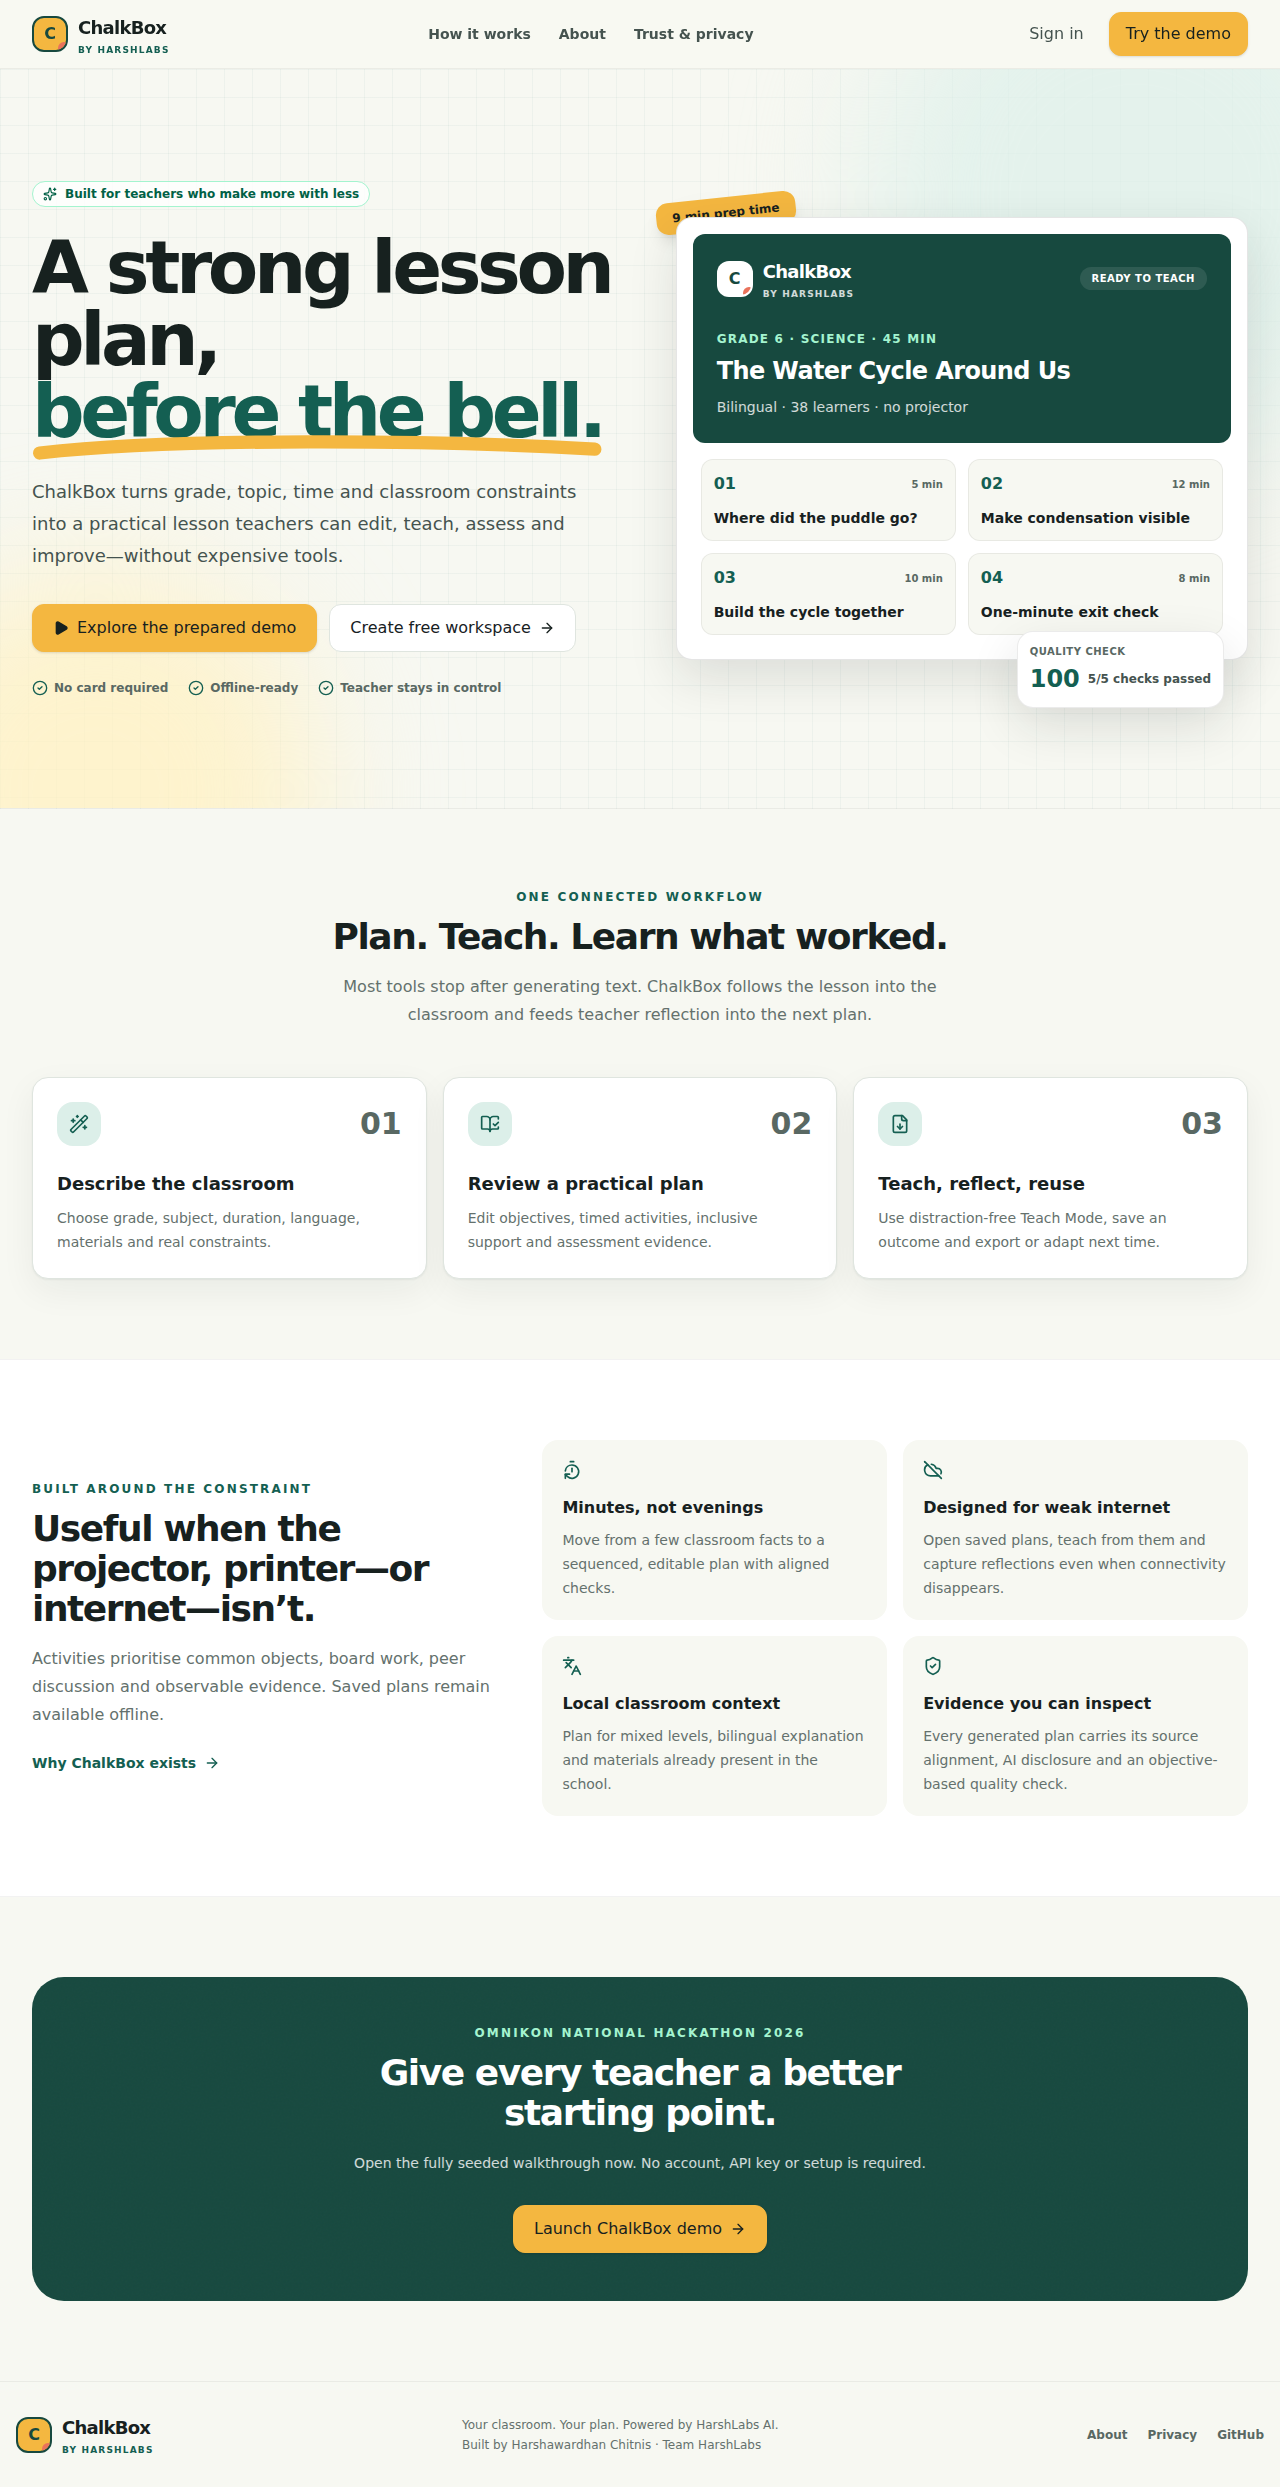
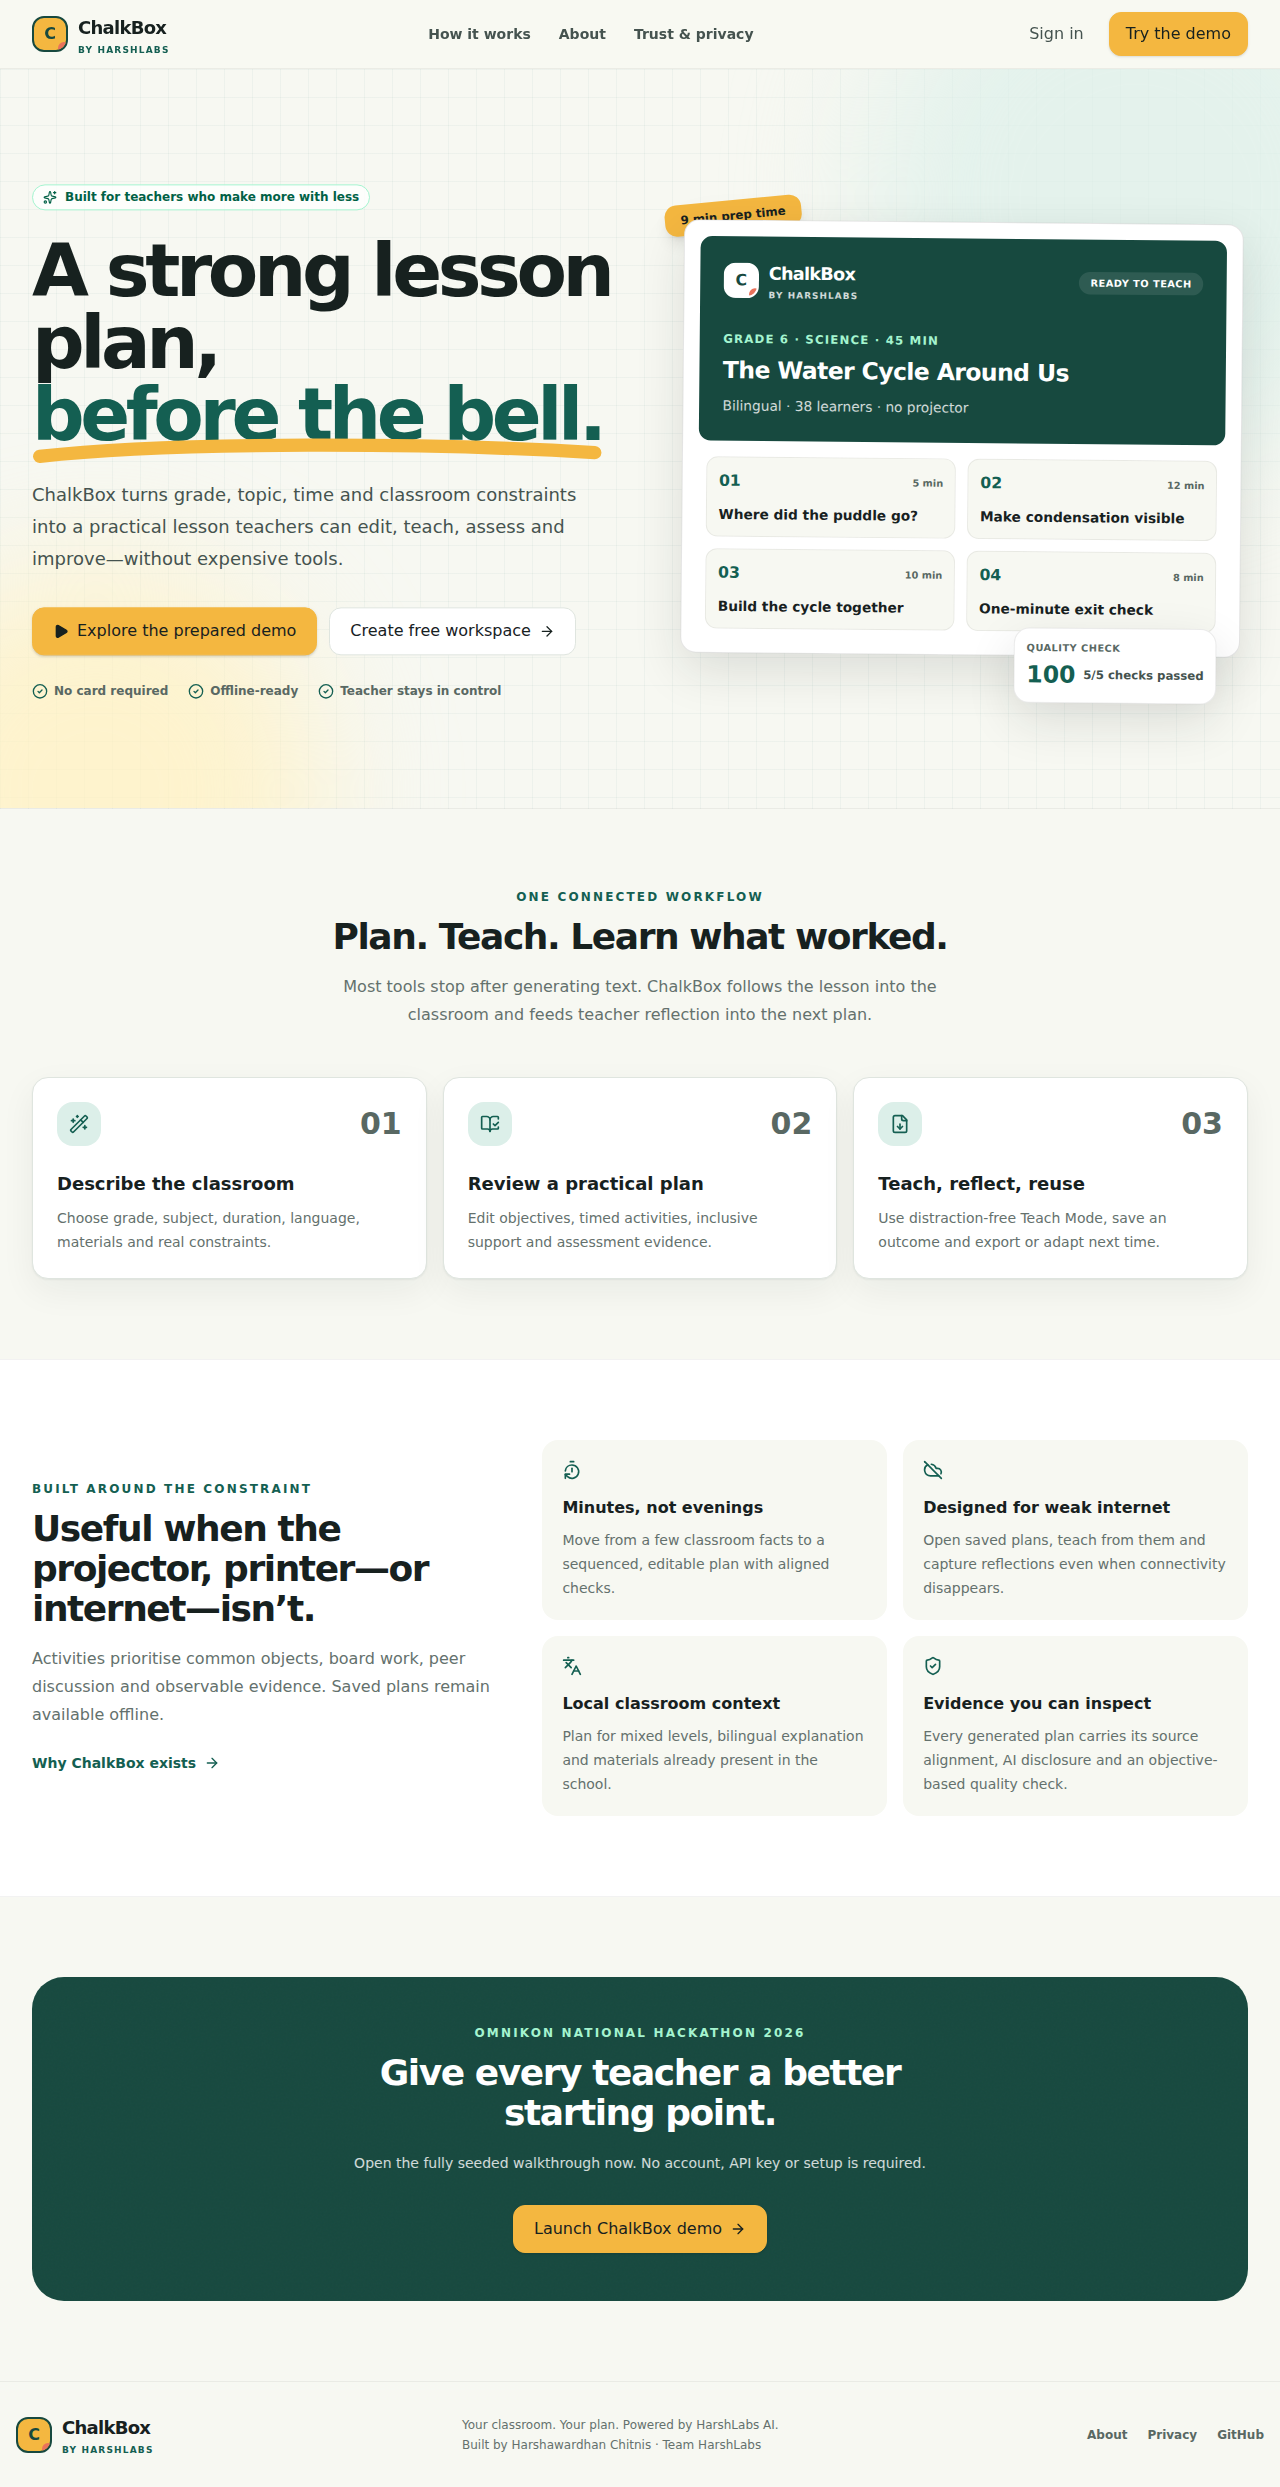
docs: finalize verified v3 evidence and delivery manifest

diff --git a/INTEGRATION_STATUS.md b/INTEGRATION_STATUS.md
@@ -6,36 +6,36 @@ This file is the authoritative truth boundary between implemented code, locally 
 
 ## Immediately functional without external setup
 
-| Capability                         | Status                           | Evidence/behavior                                                     |
-| ---------------------------------- | -------------------------------- | --------------------------------------------------------------------- |
-| Prepared judge demo                | Verified locally                 | Deterministic fictional fixtures seed into IndexedDB                  |
-| Landing/dashboard/library          | Verified locally                 | Production build and route smoke passed                               |
-| Quick Brief rule-based review      | Implemented/tested               | Explicitly labelled `rule-based`; teacher reviews before use          |
-| Plan editor/autosave/history       | Implemented/tested               | Dexie persistence, checkpoints, restore and duplicate                 |
-| Classroom profiles                 | Implemented                      | Create/edit/duplicate/archive without student names                   |
-| Curriculum explorer                | Implemented                      | Original static source-aware mappings                                 |
-| Assessment bank/worksheet          | Implemented/tested               | Provenance/review state, learner/key PDF components                   |
-| Teach/Present Mode                 | Implemented/tested at unit level | Typed blocks; explicit learner DTO excludes private teaching fields   |
-| Quick Checks/reflections/analytics | Implemented/tested               | Anonymous counts, misconception signal and suggested next action      |
-| Local immutable share demo         | Implemented/tested               | Cryptographic token/hash, snapshot, expiry and revocation logic       |
-| Moderated community demo           | Implemented/tested               | Approved immutable fixtures plus pending submission                   |
-| Offline queue/conflicts/reset      | Implemented/tested               | Ordered queue and three explicit conflict choices                     |
-| PWA/build/smoke                    | Verified locally                 | 89 precache entries and four smoke routes returned 200                |
-| Copyright-safe curriculum bundle   | Verified locally                 | 3 sources, 23 original chunks; NCERT book itself is not redistributed |
+| Capability                         | Status                     | Evidence/behavior                                                     |
+| ---------------------------------- | -------------------------- | --------------------------------------------------------------------- |
+| Prepared judge demo                | Verified locally           | Deterministic fictional fixtures seed into IndexedDB                  |
+| Landing/dashboard/library          | Verified locally           | Production build and route smoke passed                               |
+| Quick Brief rule-based review      | Implemented/tested         | Explicitly labelled `rule-based`; teacher reviews before use          |
+| Plan editor/autosave/history       | Implemented/tested         | Dexie persistence, checkpoints, restore and duplicate                 |
+| Classroom profiles                 | Implemented                | Create/edit/duplicate/archive without student names                   |
+| Curriculum explorer                | Implemented                | Original static source-aware mappings                                 |
+| Assessment bank/worksheet          | Implemented/tested         | Provenance/review state, learner/key PDF components                   |
+| Teach/Present Mode                 | Verified locally and in CI | Typed blocks; explicit learner DTO excludes private teaching fields   |
+| Quick Checks/reflections/analytics | Implemented/tested         | Anonymous counts, misconception signal and suggested next action      |
+| Local immutable share demo         | Implemented/tested         | Cryptographic token/hash, snapshot, expiry and revocation logic       |
+| Moderated community demo           | Implemented/tested         | Approved immutable fixtures plus pending submission                   |
+| Offline queue/conflicts/reset      | Implemented/tested         | Ordered queue and three explicit conflict choices                     |
+| PWA/build/smoke                    | Verified locally           | 89 precache entries and four smoke routes returned 200                |
+| Copyright-safe curriculum bundle   | Verified locally           | 3 sources, 23 original chunks; NCERT book itself is not redistributed |
 
 ## Optional hosted integrations
 
-| Integration                     | Code/config status                | Live verification status                                                 | Required owner action                                        |
-| ------------------------------- | --------------------------------- | ------------------------------------------------------------------------ | ------------------------------------------------------------ |
-| Supabase Auth                   | Implemented                       | **Not verified in this final environment**                               | Apply migrations; set site/callback URLs; test magic link    |
-| Supabase Postgres/RLS sync      | Implemented                       | **Not verified against hosted project**                                  | Apply migrations; test two-session owner/version behavior    |
-| Gemini 3.7 Flash                | Protected functions implemented   | **No API key supplied/used here; live generation unverified**            | Store key only in Edge Function secrets; deploy and test     |
-| Gemini Embedding 2 + hybrid RAG | SQL/function/corpus implemented   | **Hosted embeddings/retrieval unverified**                               | Deploy/index approved corpus; verify a real retrieved source |
-| Cross-browser public sharing    | Hashed-token RPC path implemented | **Hosted public token unverified**                                       | Apply migration 004; test active, expired and revoked link   |
-| Cloud moderation                | Tables/RLS/UI implemented         | **Hosted admin role/write unverified**                                   | Promote verified owner; test approve/reject/report           |
-| Turnstile                       | Component/config supported        | **Not configured**                                                       | Create free widget and configure site/secret keys            |
-| Cloudflare Pages                | Build/headers/redirects ready     | **Final URL not supplied/verified**                                      | Connect repository; set public variables; deploy             |
-| Browser E2E/axe                 | v3 suite implemented              | **Current v3 suite awaiting GitHub Actions; local Chromium unavailable** | Re-run automatically after branch publication                |
+| Integration                     | Code/config status                | Live verification status                                          | Required owner action                                         |
+| ------------------------------- | --------------------------------- | ----------------------------------------------------------------- | ------------------------------------------------------------- |
+| Supabase Auth                   | Implemented                       | **Not verified in this final environment**                        | Apply migrations; set site/callback URLs; test magic link     |
+| Supabase Postgres/RLS sync      | Implemented                       | **Not verified against hosted project**                           | Apply migrations; test two-session owner/version behavior     |
+| Gemini 3.7 Flash                | Protected functions implemented   | **No API key supplied/used here; live generation unverified**     | Store key only in Edge Function secrets; deploy and test      |
+| Gemini Embedding 2 + hybrid RAG | SQL/function/corpus implemented   | **Hosted embeddings/retrieval unverified**                        | Deploy/index approved corpus; verify a real retrieved source  |
+| Cross-browser public sharing    | Hashed-token RPC path implemented | **Hosted public token unverified**                                | Apply migration 004; test active, expired and revoked link    |
+| Cloud moderation                | Tables/RLS/UI implemented         | **Hosted admin role/write unverified**                            | Promote verified owner; test approve/reject/report            |
+| Turnstile                       | Component/config supported        | **Not configured**                                                | Create free widget and configure site/secret keys             |
+| Cloudflare Pages                | Build/headers/redirects ready     | **Final URL not supplied/verified**                               | Connect repository; set public variables; deploy              |
+| Browser E2E/axe                 | v3 suite implemented              | **GitHub Actions run #26 passed: 17 passed, 3 intentional skips** | Download retained Playwright/eight-screen artifacts as needed |
 
 ## Environment values still required for the cloud path
 

diff --git a/FINAL_DELIVERY_MANIFEST.md b/FINAL_DELIVERY_MANIFEST.md
@@ -1,0 +1,49 @@
+# ChalkBox final delivery manifest
+
+Team HarshLabs · Omnikon National Hackathon 2026 · Omni_EdTech_7
+
+## Included
+
+- complete React/TypeScript source and lockfile;
+- production `dist/` build and installable PWA assets;
+- typed Classroom Teaching Engine, private Teach Mode and learner-safe Present Mode;
+- exact 40-minute bilingual Photosynthesis flagship flow with nine instructional blocks;
+- anonymous Quick Check 2.0, reflection, assessment, worksheet, offline, sharing, versioning and community flows;
+- Supabase schema, RLS/security tests and server-side Gemini/RAG function code;
+- copyright-safe NCERT Class VIII Science metadata, page locators and original derived summaries (not the textbook PDF);
+- 12-page technical report;
+- eight CI-captured product screenshots;
+- implementation, deployment, security, testing, demo and integration-status documentation;
+- unit/component, security-contract, accessibility and end-to-end tests.
+
+## Verified quality gate
+
+GitHub Actions run **#26** passed for application commit `0d98afb883049498c7c07da01e74a87e5bbdc3a1`:
+
+- fixtures and curriculum provenance validated;
+- strict TypeScript and ESLint passed;
+- 14 Vitest files / 32 tests passed;
+- production PWA build and route smoke passed;
+- Playwright desktop/mobile suite: 17 passed / 3 intentional project-specific skips;
+- exact eight-screen evidence artifact produced.
+
+## Run locally
+
+```bash
+pnpm install --frozen-lockfile
+pnpm dev
+```
+
+Open the printed local URL and choose **Explore the prepared demo**. The prepared demonstration needs no database, API key or account.
+
+For the complete production gate:
+
+```bash
+pnpm verify
+pnpm exec playwright install --with-deps chromium
+pnpm test:e2e
+```
+
+## Truth boundary
+
+The prepared demo and local-first product are immediately functional. Hosted Supabase, live Gemini/RAG, public cross-browser sharing, Turnstile and Cloudflare Pages remain optional owner-configured integrations and are not falsely represented as deployed. No secret or learner PII is included.

diff --git a/report/evidence/BUILD_VERIFICATION.md b/report/evidence/BUILD_VERIFICATION.md
@@ -35,10 +35,18 @@ The `ChalkBox quality gate` workflow is configured to run:
 - axe WCAG A/AA serious/critical checks;
 - production-build, Playwright-report and eight product-screenshot artifacts.
 
-The previous v2 baseline passed GitHub Actions run **#16**. The new v3 branch must complete its own workflow before any browser-pass claim is updated here. The workflow is configured to upload the production build, Playwright report, and eight-screen v3 product evidence set.
+The v3 Classroom Teaching Engine passed GitHub Actions run **#26** on commit `0d98afb883049498c7c07da01e74a87e5bbdc3a1`:
+
+- `verify`: passed;
+- `browser-tests`: passed;
+- Playwright: 20 discovered checks across desktop/mobile projects, **17 passed** and **3 intentional project-specific skips**;
+- accessibility checks: passed on desktop and mobile;
+- artifacts: production build, Playwright report and the exact eight-screen judge evidence set uploaded.
+
+The eight evidence screens are landing, Quick Brief, lesson editor, Classroom Mode, Present Mode, Quick Check 2.0, Assessment Bank and mobile Classroom Mode.
 
 ## Final hosted verification
 
 After Supabase and Cloudflare Pages are configured, record the exact deployment URL, function health, live Gemini generation, indexed RAG result, auth callback, cross-browser share, PWA/offline reload and downloadable PDFs in `INTEGRATION_STATUS.md`.
 
-No unexecuted browser or hosted check is represented as passing.
+No unexecuted hosted check is represented as passing.
